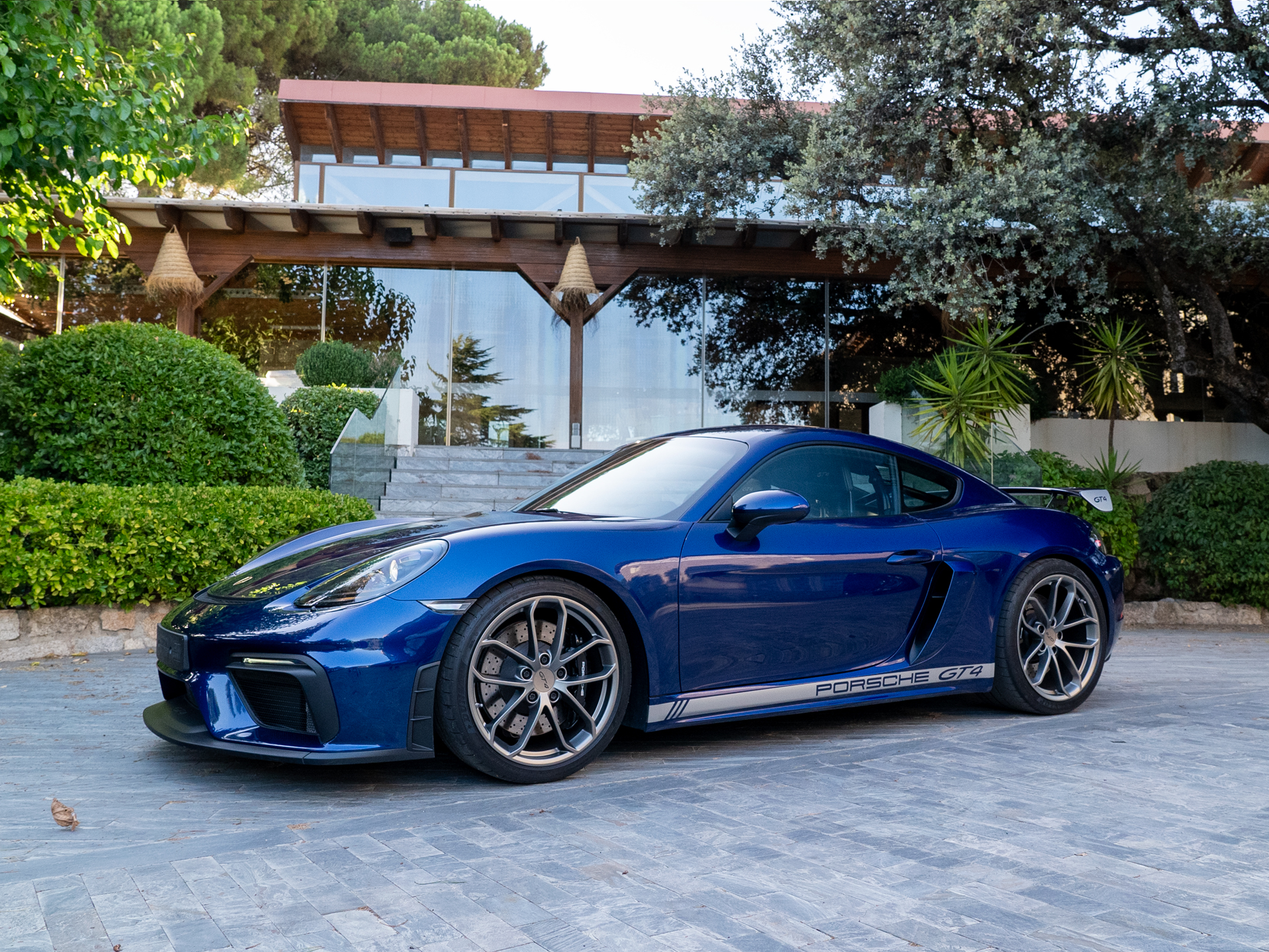
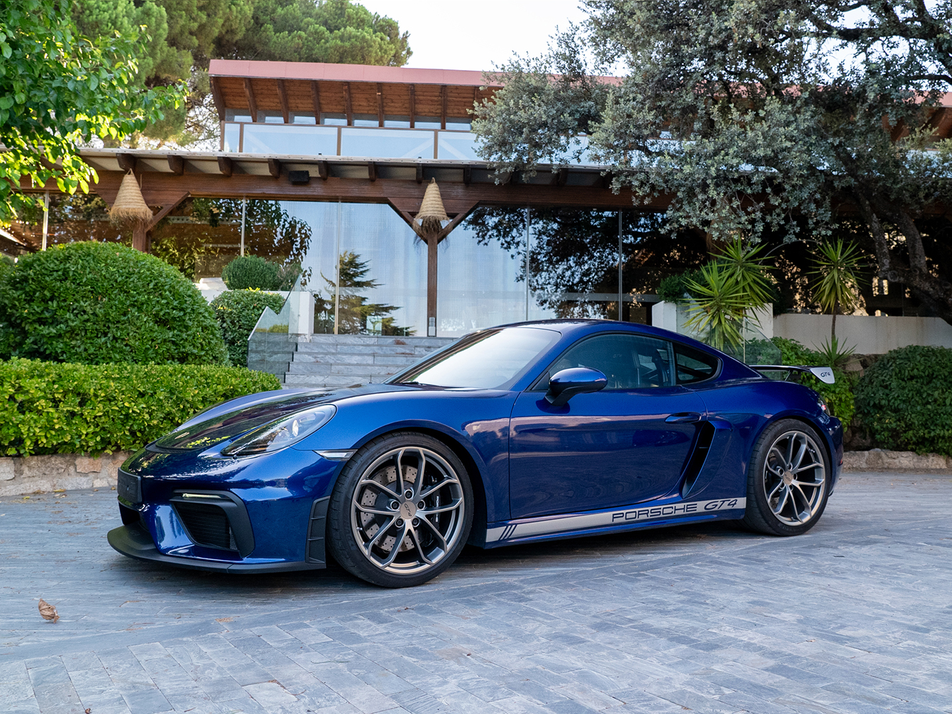
.

diff --git a/index.html b/index.html
@@ -4,8 +4,8 @@
     
     
 
-	<title>Aston Martin V12 Vantage Roadster - PKW</title>
-    <link rel="shortcut icon" href="https://ejemplo.work/img/favicon.png">
+	<title>Porsche Cayman GT4 - PKW</title>
+    <link rel="shortcut icon" href="car_show_files/favicon.png">
         
         
 	
@@ -184,7 +184,7 @@ height="0" width="0" style="display:none;visibility:hidden"></iframe></noscript>
 -->
        
        
-      <img data-src=" ./car_show_files/fotoprincipalcayman.jpg" alt="" class="u-image__background lazy c-product-intro__image loaded" src="./car_show_files/fotoprincipalcayman.jpg">
+      <img data-src=" ./car_show_files/fotoprincipalcayman2.jpg" alt="" class="u-image__background lazy c-product-intro__image loaded" src="./car_show_files/fotoprincipalcayman2.jpg">
     </picture>
             
           
@@ -259,8 +259,8 @@ height="0" width="0" style="display:none;visibility:hidden"></iframe></noscript>
 					<div class="c-product-intro__content">
 						<h1 class="c-product-intro__title"> Porsche Cayman GT4</h1>
 													<div class="u-flex c-product-intro__meta">
-								<div class="c-product-intro__meta-title">Type</div>
-								<div class="c-product-intro__meta-value">5.9 V12 S | 1e eigenaar | Veel carbon! | Dealer onderhouden | NL-geleverd</div>
+								<div class="c-product-intro__meta-title">Modelo</div>
+								<div class="c-product-intro__meta-value">718 Cayman GT4</div>
 							</div>
 													<div class="u-flex c-product-intro__meta">
 								<div class="c-product-intro__meta-title">Color de Fábrica</div>
@@ -3019,49 +3019,53 @@ height="0" width="0" style="display:none;visibility:hidden"></iframe></noscript>
 		<div class="u-squeeze u-squeeze--xxl">
 			<div class="c-images__row u-flex u-flex-sb">
 		
-        <a href="https://wimprins.nl/wp-content/uploads/tmp/34503931-1-1024x768.jpg" class="js-lightbox-image c-images__col   g-1/1@s-o g-1/2@m-o g-1/3@l">
+        <a href="./car_show_files/g1.jpg" class="js-lightbox-image c-images__col   g-1/1@s-o g-1/2@m-o g-1/3@l">
+            
 							<div class="u-image u-image--h_small c-images__image">
                                 
-								<img width="768" height="576" class="u-image__background c-image-row__background lazy loaded" alt="" loading="lazy" data-src="/wp-content/uploads/tmp/34503931-1-768x576.jpg" data-srcset="https://wimprins.nl/wp-content/uploads/tmp/34503931-1-768x576.jpg 768w, https://wimprins.nl/wp-content/uploads/tmp/34503931-1-300x225.jpg 300w, https://wimprins.nl/wp-content/uploads/tmp/34503931-1-1024x768.jpg 1024w, https://wimprins.nl/wp-content/uploads/tmp/34503931-1-1536x1152.jpg 1536w, https://wimprins.nl/wp-content/uploads/tmp/34503931-1-1440x1080.jpg 1440w, https://wimprins.nl/wp-content/uploads/tmp/34503931-1-1280x960.jpg 1280w, https://wimprins.nl/wp-content/uploads/tmp/34503931-1-480x360.jpg 480w, https://wimprins.nl/wp-content/uploads/tmp/34503931-1-240x180.jpg 240w, https://wimprins.nl/wp-content/uploads/tmp/34503931-1.jpg 1920w" data-sizes="(max-width: 768px) 100vw, 768px" src="./car_show_files/34503931-1-768x576.jpg" srcset="https://wimprins.nl/wp-content/uploads/tmp/34503931-1-768x576.jpg 768w, https://wimprins.nl/wp-content/uploads/tmp/34503931-1-300x225.jpg 300w, https://wimprins.nl/wp-content/uploads/tmp/34503931-1-1024x768.jpg 1024w, https://wimprins.nl/wp-content/uploads/tmp/34503931-1-1536x1152.jpg 1536w, https://wimprins.nl/wp-content/uploads/tmp/34503931-1-1440x1080.jpg 1440w, https://wimprins.nl/wp-content/uploads/tmp/34503931-1-1280x960.jpg 1280w, https://wimprins.nl/wp-content/uploads/tmp/34503931-1-480x360.jpg 480w, https://wimprins.nl/wp-content/uploads/tmp/34503931-1-240x180.jpg 240w, https://wimprins.nl/wp-content/uploads/tmp/34503931-1.jpg 1920w" sizes="(max-width: 768px) 100vw, 768px">
+								<img width="768" height="576" class="u-image__background c-image-row__background lazy loaded" alt="" loading="lazy" data-src="./car_show_files/g1.jpg" src="./car_show_files/g1.jpg">
+                                    
+       <!--                             data-srcset="https://wimprins.nl/wp-content/uploads/tmp/34503931-1-768x576.jpg 768w, https://wimprins.nl/wp-content/uploads/tmp/34503931-1-300x225.jpg 300w, https://wimprins.nl/wp-content/uploads/tmp/34503931-1-1024x768.jpg 1024w, https://wimprins.nl/wp-content/uploads/tmp/34503931-1-1536x1152.jpg 1536w, https://wimprins.nl/wp-content/uploads/tmp/34503931-1-1440x1080.jpg 1440w, https://wimprins.nl/wp-content/uploads/tmp/34503931-1-1280x960.jpg 1280w, https://wimprins.nl/wp-content/uploads/tmp/34503931-1-480x360.jpg 480w, https://wimprins.nl/wp-content/uploads/tmp/34503931-1-240x180.jpg 240w, https://wimprins.nl/wp-content/uploads/tmp/34503931-1.jpg 1920w" data-sizes="(max-width: 768px) 100vw, 768px"  srcset="https://wimprins.nl/wp-content/uploads/tmp/34503931-1-768x576.jpg 768w, https://wimprins.nl/wp-content/uploads/tmp/34503931-1-300x225.jpg 300w, https://wimprins.nl/wp-content/uploads/tmp/34503931-1-1024x768.jpg 1024w, https://wimprins.nl/wp-content/uploads/tmp/34503931-1-1536x1152.jpg 1536w, https://wimprins.nl/wp-content/uploads/tmp/34503931-1-1440x1080.jpg 1440w, https://wimprins.nl/wp-content/uploads/tmp/34503931-1-1280x960.jpg 1280w, https://wimprins.nl/wp-content/uploads/tmp/34503931-1-480x360.jpg 480w, https://wimprins.nl/wp-content/uploads/tmp/34503931-1-240x180.jpg 240w, https://wimprins.nl/wp-content/uploads/tmp/34503931-1.jpg 1920w" sizes="(max-width: 768px) 100vw, 768px" -->
 							</div>
 						</a>
 					
                     
-                    <a href="./car_show_files/34503931-2.jpg" class="js-lightbox-image c-images__col   g-1/1@s-o g-1/2@m-o g-1/3@l">
+                    <a href="./car_show_files/g2.jpg" class="js-lightbox-image c-images__col   g-1/1@s-o g-1/2@m-o g-1/3@l">
+                        
 							<div class="u-image u-image--h_small c-images__image">
-								<img width="1" height="1" class="u-image__background c-image-row__background lazy loaded" alt="" loading="lazy" data-src="./car_show_files/34503931-2.jpg" src="./car_show_files/34503931-2.jpg">
+								<img width="1" height="1" class="u-image__background c-image-row__background lazy loaded" alt="" loading="lazy" data-src="./car_show_files/g2.jpg" src="./car_show_files/g2.jpg">
 							</div>
 						</a>
 						
-                        <a href="./car_show_files/34503931-3.jpg" class="js-lightbox-image c-images__col   g-1/1@s-o g-1/2@m-o g-1/3@l">
+                        <a href="./car_show_files/g3.jpg" class="js-lightbox-image c-images__col   g-1/1@s-o g-1/2@m-o g-1/3@l">
 							<div class="u-image u-image--h_small c-images__image">
-								<img width="1" height="1" class="u-image__background c-image-row__background lazy loaded" alt="" loading="lazy" data-src="./car_show_files/34503931-3.jpg" src="./car_show_files/34503931-3.jpg">
+								<img width="1" height="1" class="u-image__background c-image-row__background lazy loaded" alt="" loading="lazy" data-src="./car_show_files/g3.jpg" src="./car_show_files/g3.jpg">
 							</div>
 						</a>
                         
                         
-                        <a href="./car_show_files/34503931-4.jpg" class="js-lightbox-image c-images__col   g-1/1@s-o g-1/2@m-o g-1/3@l">
+                        <a href="./car_show_files/g4.jpg" class="js-lightbox-image c-images__col   g-1/1@s-o g-1/2@m-o g-1/3@l">
 							<div class="u-image u-image--h_small c-images__image">
-								<img width="1" height="1" class="u-image__background c-image-row__background lazy loaded" alt="" loading="lazy" data-src="./car_show_files/34503931-4.jpg" src="./car_show_files/34503931-4.jpg">
+								<img width="1" height="1" class="u-image__background c-image-row__background lazy loaded" alt="" loading="lazy" data-src="./car_show_files/g4.jpg" src="./car_show_files/g4.jpg">
 							</div>
 						</a>
                         
                         
-                        <a href="./car_show_files/34503931-5.jpg" class="js-lightbox-image c-images__col   g-1/1@s-o g-1/2@m-o g-1/3@l">
+                        <a href="./car_show_files/g5.jpg" class="js-lightbox-image c-images__col   g-1/1@s-o g-1/2@m-o g-1/3@l">
 							<div class="u-image u-image--h_small c-images__image">
-								<img width="1" height="1" class="u-image__background c-image-row__background lazy loaded" alt="" loading="lazy" data-src="./car_show_files/34503931-5.jpg" src="./car_show_files/34503931-5.jpg">
+								<img width="1" height="1" class="u-image__background c-image-row__background lazy loaded" alt="" loading="lazy" data-src="./car_show_files/g5.jpg" src="./car_show_files/g5.jpg">
 							</div>
 						</a>
                         
                         
-                        <a href="./car_show_files/34503931-6.jpg" class="js-lightbox-image c-images__col   g-1/1@s-o g-1/2@m-o g-1/3@l">
+                        <a href="./car_show_files/g6.jpg" class="js-lightbox-image c-images__col   g-1/1@s-o g-1/2@m-o g-1/3@l">
 							<div class="u-image u-image--h_small c-images__image">
-								<img width="1" height="1" class="u-image__background c-image-row__background lazy loaded" alt="" loading="lazy" data-src="./car_show_files/34503931-6.jpg" src="./car_show_files/34503931-6.jpg">
+								<img width="1" height="1" class="u-image__background c-image-row__background lazy loaded" alt="" loading="lazy" data-src="./car_show_files/g6.jpg" src="./car_show_files/g6.jpg">
 							</div>
 						</a>
                         
                         
-  <!--Botón fotos-->
+  <!--Botón ver todas las fotos-->
                         
                         <div class="c-images__button-container u-text-center js-child-click">
                             
@@ -3077,27 +3081,27 @@ height="0" width="0" style="display:none;visibility:hidden"></iframe></noscript>
 						</div>
                         
                         
-                        <a href="https://ejemplo.work/car_show_files/34503931-7.jpg" class="js-lightbox-image c-images__col c-images__col--hidden  g-1/1@s-o g-1/2@m-o g-1/3@l">
+                        <a href="./car_show_files/g7.jpg" class="js-lightbox-image c-images__col c-images__col--hidden  g-1/1@s-o g-1/2@m-o g-1/3@l">
 							<div class="u-image u-image--h_small c-images__image">
-								<img width="1" height="1" class="u-image__background c-image-row__background lazy loaded" alt="" loading="lazy" data-src="/wp-content/uploads/tmp/34503931-7.jpg" src="./car_show_files/34503931-7.jpg">
+								<img width="1" height="1" class="u-image__background c-image-row__background lazy loaded" alt="" loading="lazy" data-src="./car_show_files/g7.jpg" src="./car_show_files/g7.jpg">
 							</div>
 						</a>
                         
                         
-                        <a href="https://ejemplo.work/car_show_files/34503931-8.jpg" class="js-lightbox-image c-images__col c-images__col--hidden  g-1/1@s-o g-1/2@m-o g-1/3@l">
+                        <a href="./car_show_files/g8.jpg" class="js-lightbox-image c-images__col c-images__col--hidden  g-1/1@s-o g-1/2@m-o g-1/3@l">
 							<div class="u-image u-image--h_small c-images__image">
-								<img width="1" height="1" class="u-image__background c-image-row__background lazy loaded" alt="" loading="lazy" data-src="/wp-content/uploads/tmp/34503931-8.jpg" src="./car_show_files/34503931-8.jpg">
+								<img width="1" height="1" class="u-image__background c-image-row__background lazy loaded" alt="" loading="lazy" data-src="./car_show_files/g8.jpg" src="./car_show_files/g8.jpg">
 							</div>
 						</a>
                         
                         
-                        <a href="https://ejemplo.work/car_show_files/34503931-9.jpg" class="js-lightbox-image c-images__col c-images__col--hidden  g-1/1@s-o g-1/2@m-o g-1/3@l">
+                        <a href="./car_show_files/g9.jpg" class="js-lightbox-image c-images__col c-images__col--hidden  g-1/1@s-o g-1/2@m-o g-1/3@l">
 							<div class="u-image u-image--h_small c-images__image">
-								<img width="1" height="1" class="u-image__background c-image-row__background lazy loaded" alt="" loading="lazy" data-src="/wp-content/uploads/tmp/34503931-9.jpg" src="./car_show_files/34503931-9.jpg">
+								<img width="1" height="1" class="u-image__background c-image-row__background lazy loaded" alt="" loading="lazy" data-src="./car_show_files/g9.jpg" src="./car_show_files/g9.jpg">
 							</div>
 						</a>
                         
-                        
+   <!--
                         <a href="./car_show_files/34503931-10.jpg" class="js-lightbox-image c-images__col c-images__col--hidden  g-1/1@s-o g-1/2@m-o g-1/3@l">
 							<div class="u-image u-image--h_small c-images__image">
 								<img width="1" height="1" class="u-image__background c-image-row__background lazy loaded" alt="" loading="lazy" data-src="/wp-content/uploads/tmp/34503931-10.jpg" src="./car_show_files/34503931-10(1).jpg">
@@ -3369,12 +3373,16 @@ height="0" width="0" style="display:none;visibility:hidden"></iframe></noscript>
 								<img width="1" height="1" class="u-image__background c-image-row__background lazy loaded" alt="" loading="lazy" data-src="/wp-content/uploads/tmp/34503931-54.jpg" src="./car_show_files/34503931-54.jpg">
 							</div>
 						</a>
-												</div>
+												
+  -->
+   
+   </div>
 		</div>
 	</div>
 </div>
 
 <!--Fin galería todas las fotos-->
+
 
 <!-- Menú Info Cabecera -->
 <section id="tabs" class="c-tabs u-pad--top-xxl u-pad--bot-xl u-pad-m--top-xxl u-pad-m--bot-l">
